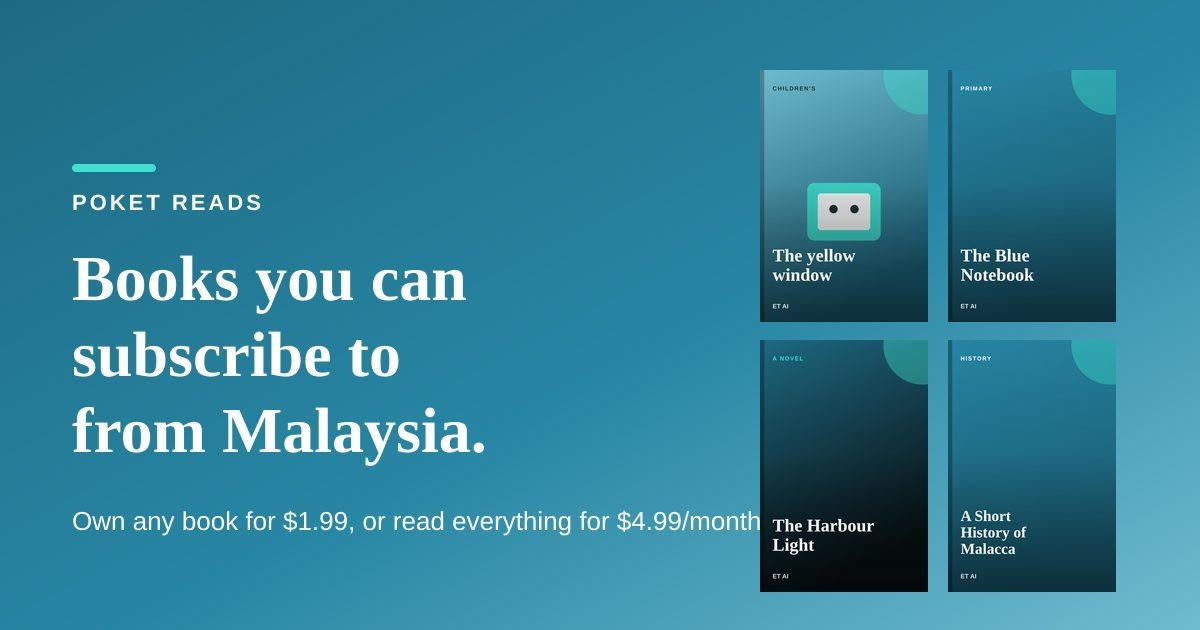
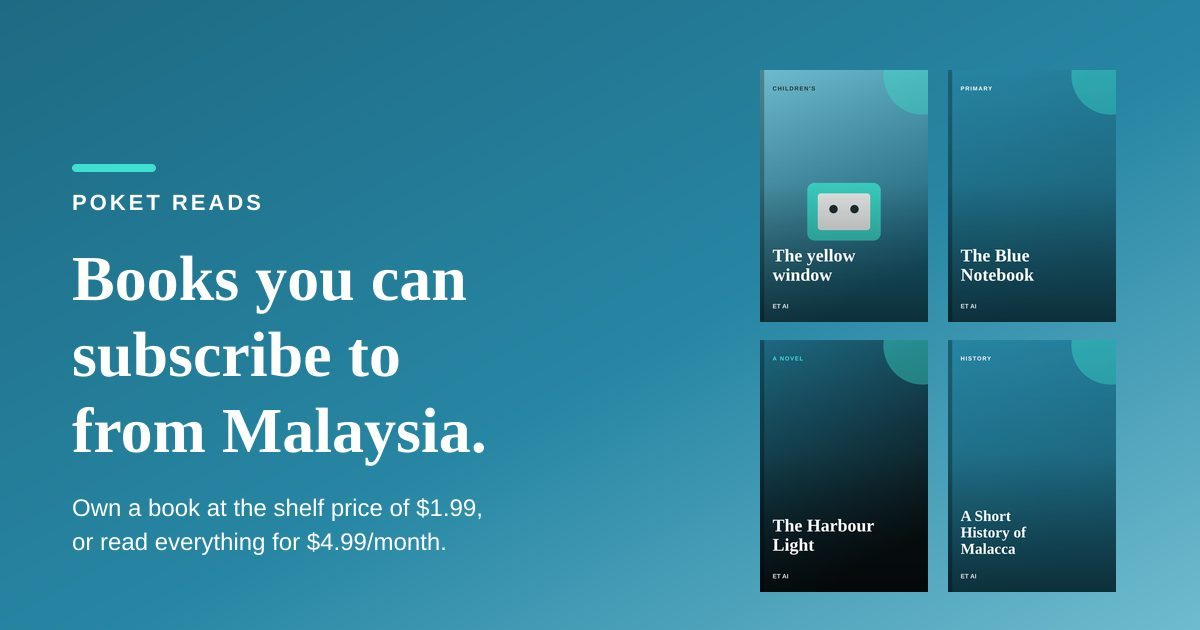
Read the Reads letter from main's shelf prices.
Drop this branch's copies of the pricing engine, wallet, seed, and shared reader. The letter and the /offer card take monthly and yearly amounts from readsPlanItem, and the book shelf price from defaultBookUsd.

Changed region(s): [[0.0617, 0.7841, 0.6475, 0.8746]]

diff --git a/lib/reads-offer.ts b/lib/reads-offer.ts
@@ -1,16 +1,49 @@
 import { LEGAL_COMPANY_NO, LEGAL_ENTITY } from './legal';
 import { LANGUAGES } from './languages';
-import {
-  READS_BOOKS,
-  READS_BOOK_USD,
-  booksVersusUnlimitedLine,
-  formatShelfUsd,
-  ownOrReadLine,
-  readsDailyUsd,
-  readsPlanItem,
-} from './payments/reads';
+import { READS_BOOKS, readsPlanItem } from './payments/reads';
+import { seedPricing } from './pricing';
 
-export { READS_BOOK_USD, booksVersusUnlimitedLine, ownOrReadLine, readsDailyUsd, formatShelfUsd };
+const COUNT_WORDS = ['zero', 'one', 'two', 'three', 'four', 'five', 'six', 'seven', 'eight', 'nine', 'ten'] as const;
+
+/** Shelf price for a book that does not store its own. `seedPricing().defaultBookUsd`. */
+export function shelfBookUsd(): number {
+  return seedPricing().defaultBookUsd;
+}
+
+export const READS_BOOK_USD = shelfBookUsd();
+
+export function formatShelfUsd(amount: number): string {
+  return `$${amount.toFixed(2)}`;
+}
+
+/** How many shelf-price books it takes before their price passes one month of Reads. */
+export function booksDearerThanUnlimited(): number {
+  const month = readsPlanItem('reads', 'month');
+  if (!month || !(READS_BOOK_USD > 0)) return 0;
+  return Math.floor(month.unitAmount / READS_BOOK_USD) + 1;
+}
+
+/** Own-or-subscribe line. Amounts come from the shared shelf. */
+export function ownOrReadLine(): string {
+  const month = readsPlanItem('reads', 'month');
+  if (!month) throw new Error('Reads price is missing from the shared shelf.');
+  return `Own a book at the shelf price of ${formatShelfUsd(READS_BOOK_USD)}, or read everything for ${formatShelfUsd(month.unitAmount)}/month`;
+}
+
+/** Shelf-price books whose total passes one month of unlimited reading. */
+export function booksVersusUnlimitedLine(): string {
+  const count = booksDearerThanUnlimited();
+  const word = COUNT_WORDS[count] ?? String(count);
+  const titled = word.charAt(0).toUpperCase() + word.slice(1);
+  return `${titled} books at the shelf price cost more than a month of unlimited`;
+}
+
+/** Monthly price spread over 30 days, rounded to cents. Label it as approximate. */
+export function readsDailyUsd(sku: 'reads' | 'reads-family' = 'reads'): number {
+  const month = readsPlanItem(sku, 'month');
+  if (!month) throw new Error(`Unknown Reads plan ${sku}`);
+  return Math.round((month.unitAmount / 30) * 100) / 100;
+}
 
 /** Public sales letter. Separate from the Poket School plan ladder at /offer. */
 export const READS_OFFER_PATH = '/reads/offer';
@@ -135,7 +168,7 @@ export const READS_OFFER_FAQ: OfferFaq[] = [
   },
   {
     question: 'What does the monthly Reads price include?',
-    answer: `Poket Reads is ${formatShelfUsd(readsMonthlyUsd('reads'))} a month, or ${formatShelfUsd(readsYearlyUsd('reads'))} for the year. It opens the shelf at Primary and Lower Secondary, plus general fiction, non-fiction and children’s stories on that shelf. It does not include every IGCSE, A-Level or LLB title. Those books sit on the same shelf. The first chapter of a published book is free to sample. Any book is ${formatShelfUsd(READS_BOOK_USD)} to buy and keep. ${booksVersusUnlimitedLine()}.`,
+    answer: `Poket Reads is ${formatShelfUsd(readsMonthlyUsd('reads'))} a month, or ${formatShelfUsd(readsYearlyUsd('reads'))} for the year. It opens the shelf at Primary and Lower Secondary, plus general fiction, non-fiction and children’s stories on that shelf. It does not include every IGCSE, A-Level or LLB title. Those books sit on the same shelf. The first chapter of a published book is free to sample. The shelf price for a book is ${formatShelfUsd(READS_BOOK_USD)} to buy and keep. A title that stores its own price uses that figure. ${booksVersusUnlimitedLine()}.`,
   },
   {
     question: 'What is Reads Family?',
@@ -143,7 +176,7 @@ export const READS_OFFER_FAQ: OfferFaq[] = [
   },
   {
     question: 'If I buy a book, do I keep it?',
-    answer: `Yes. A book is ${formatShelfUsd(READS_BOOK_USD)} to buy, and it stays in your library after a subscription ends.`,
+    answer: `Yes. You buy it at the price stored for that title. The shelf price is ${formatShelfUsd(READS_BOOK_USD)} when a title does not store its own. The file stays in your library after a subscription ends.`,
   },
   {
     question: 'What does Ask ET do inside a book?',
@@ -173,7 +206,7 @@ export const READS_OFFER_FOUNDER = {
   paragraphs: [
     'I am Harry Seggu, founder of Poket School.',
     'Poket Reads is a shelf we sell on its own, from Malaysia. Kindle Unlimited is not sold here. Amazon Kids+ is not sold here. A household can subscribe, or buy one published book and keep it.',
-    `The figures on this page are the prices in the product. A book is ${readsUsdWords(READS_BOOK_USD)} to buy and keep. Reads is ${readsUsdWords(readsMonthlyUsd('reads'))} a month, or ${readsUsdWords(readsYearlyUsd('reads'))} for the year. Reads Family is ${readsUsdWords(readsMonthlyUsd('reads-family'))} a month, or ${readsUsdWords(readsYearlyUsd('reads-family'))} for the year. ${booksVersusUnlimitedLine()}. The subscription opens Primary and Lower Secondary, plus general fiction, non-fiction and children’s stories on that shelf. IGCSE, A-Level and LLB titles can be sampled and bought. They are not included in that monthly price.`,
+    `The figures on this page are the prices in the product. The shelf price for a book is ${readsUsdWords(READS_BOOK_USD)} to buy and keep. A title that stores its own price uses that figure. Reads is ${readsUsdWords(readsMonthlyUsd('reads'))} a month, or ${readsUsdWords(readsYearlyUsd('reads'))} for the year. Reads Family is ${readsUsdWords(readsMonthlyUsd('reads-family'))} a month, or ${readsUsdWords(readsYearlyUsd('reads-family'))} for the year. ${booksVersusUnlimitedLine()}. The subscription opens Primary and Lower Secondary, plus general fiction, non-fiction and children’s stories on that shelf. IGCSE, A-Level and LLB titles can be sampled and bought. They are not included in that monthly price.`,
     'The lines under Read a page are the openings of published chapters. I have not put a customer’s words on this page. We do not have them yet.',
   ],
 } as const;
@@ -220,7 +253,7 @@ export function readsOfferJsonLd() {
           ...productOffers,
           {
             '@type': 'Offer',
-            name: 'Own a book',
+            name: 'Shelf price for a book',
             price: READS_BOOK_USD.toFixed(2),
             priceCurrency: 'USD',
             url: READS_OFFER_URL,

diff --git a/lib/reads-offer.test.ts b/lib/reads-offer.test.ts
@@ -6,22 +6,20 @@ import { BANNED_OFFER_COLOURS, OFFER_JACKETS } from './reads-offer-media';
 import { readsOfferExcerpts } from './reads-offer-excerpts';
 import { LANGUAGES } from './languages';
 import { BOOKS } from './reads/seed';
+import { READS_BOOKS, readsPlanItem } from './payments/reads';
+import { seedPricing } from './pricing';
 import {
-  READS_BOOKS,
   READS_BOOK_USD,
-  READS_PLANS,
-  booksDearerThanUnlimited,
-  booksVersusUnlimitedLine,
-  ownOrReadLine,
-  readsPlanItem,
-} from './payments/reads';
-import {
+  READS_OFFER_BOOKS,
   READS_OFFER_CHECKOUTS,
   READS_OFFER_FAQ,
   READS_OFFER_FOUNDER,
   READS_OFFER_LANGUAGE_COUNT,
   READS_OFFER_TESTIMONIALS,
   bookCheckoutHref,
+  booksDearerThanUnlimited,
+  booksVersusUnlimitedLine,
+  ownOrReadLine,
   readsCheckoutHref,
   readsMonthlyUsd,
   readsOfferJsonLd,
@@ -35,9 +33,9 @@ test('Reads prices match the shared shelf', () => {
   assert.equal(readsYearlyUsd('reads'), 49.99);
   assert.equal(readsMonthlyUsd('reads-family'), 7.99);
   assert.equal(readsYearlyUsd('reads-family'), 79.99);
-  assert.equal(READS_PLANS.find(plan => plan.id === 'reads')?.monthlyUsd, 4.99);
-  assert.equal(READS_PLANS.find(plan => plan.id === 'reads')?.yearlyUsd, 49.99);
+  assert.equal(readsPlanItem('reads', 'year')?.unitAmount, 49.99);
   assert.notEqual(readsYearlyUsd('reads'), readsMonthlyUsd('reads') * 10);
+  assert.notEqual(readsYearlyUsd('reads-family'), readsMonthlyUsd('reads-family') * 10);
   assert.deepEqual(
     READS_OFFER_CHECKOUTS.map(item => item.usd),
     [4.99, 49.99, 7.99, 79.99],
@@ -51,18 +49,24 @@ test('checkout links use the unified Reads checkout', () => {
   assert.equal(bookCheckoutHref('harbour-light'), '/dashboard/checkout?kind=book&sku=harbour-light');
 });
 
-test('buy-to-own prices are the shared own-forever price', () => {
+test('buy-to-own prices come from the shared shelf', () => {
+  const config = seedPricing();
   const harbour = READS_BOOKS.find(book => book.id === 'harbour-light');
-  assert.equal(harbour?.usd, READS_BOOK_USD);
-  assert.equal(harbour?.usd, 1.99);
+  const harbourSeed = BOOKS.find(book => book.id === 'harbour-light');
+  assert.equal(READS_BOOK_USD, config.defaultBookUsd);
+  assert.equal(READS_BOOK_USD, 1.99);
+  assert.equal(harbour?.usd, config.defaultBookUsd);
+  assert.equal(harbourSeed?.priceUsd, config.defaultBookUsd);
   assert.equal(harbour?.title, 'The Harbour Light');
-  assert.equal(READS_BOOKS.every(book => book.usd === READS_BOOK_USD), true);
-  assert.equal(BOOKS.every(book => book.priceUsd === READS_BOOK_USD), true);
+  assert.deepEqual(
+    READS_OFFER_BOOKS.map(book => [book.id, book.usd]),
+    READS_BOOKS.map(book => [book.id, book.usd]),
+  );
   assert.equal(booksDearerThanUnlimited(), 3);
   assert.equal(3 * READS_BOOK_USD > readsMonthlyUsd('reads'), true);
   assert.equal(2 * READS_BOOK_USD > readsMonthlyUsd('reads'), false);
-  assert.equal(ownOrReadLine(), 'Own any book for $1.99, or read everything for $4.99/month');
-  assert.equal(booksVersusUnlimitedLine(), 'Three books cost more than a month of unlimited');
+  assert.equal(ownOrReadLine(), 'Own a book at the shelf price of $1.99, or read everything for $4.99/month');
+  assert.equal(booksVersusUnlimitedLine(), 'Three books at the shelf price cost more than a month of unlimited');
 });
 
 test('excerpts are the opening of real seed chapters', () => {
@@ -118,7 +122,8 @@ test('the letter has a founder note and no invented reviews, guarantee or bonus'
   assert.match(faqBlob, /\$7\.99/);
   assert.match(faqBlob, /\$79\.99/);
   assert.match(founderBlob, /1\.99 US dollars/);
-  assert.match(founderBlob, /Three books cost more than a month of unlimited/);
+  assert.match(founderBlob, /A title that stores its own price uses that figure/);
+  assert.match(founderBlob, /Three books at the shelf price cost more than a month of unlimited/);
   const json = JSON.stringify(readsOfferJsonLd());
   assert.equal(json.includes('"@type":"Review"'), false);
   assert.equal(json.includes('aggregateRating'), false);

diff --git a/components/reads/reader-view.tsx b/components/reads/reader-view.tsx
@@ -21,7 +21,6 @@ import { chapterProgress, paginateChapter, sentencesOf } from '@/lib/reads/pagin
 import { markdownForPageCount } from '@/lib/reads/page-count';
 import { isPictureBook, pictureSpreads, readerFontFamily, readerTypeface, wordsOf, type ReaderTypeface } from '@/lib/reads/picture-book';
 import { ChapterProse, proseForSpeech } from '@/components/reads/prose';
-import { readerSerif } from '@/components/reads/reader-font';
 import { QUIET_LABEL, isQuietHour } from '@/lib/reads/quiet';
 import { bookById } from '@/lib/reads/seed';
 import { STUDIO_AUTOSAVE_KEY, usePublishedStudioBooks } from '@/components/reads/use-studio-shelf';
@@ -51,12 +50,6 @@ function cachedChapterMarkdown(
   } catch {
     return undefined;
   }
-}
-
-function proseFace(prefs: ReaderPrefs, typeface: ReaderTypeface = readerTypeface(prefs)): string {
-  const stack = readerFontFamily(typeface);
-  if (typeface !== 'serif') return stack;
-  return `${readerSerif.style.fontFamily}, ${stack}`;
 }
 
 const THEMES = {
@@ -413,7 +406,7 @@ export function Reader({ bookId, initialLang, preview = false }: { bookId: strin
   const highlighted = notes.some(n => page.includes(n.quote));
 
   return (
-    <div className={`min-h-screen ${readerSerif.className}`} dir={scriptDir} style={{ background: theme.bg, color: theme.fg }}>
+    <div className="min-h-screen" dir={scriptDir} style={{ background: theme.bg, color: theme.fg }}>
       <link rel="stylesheet" href="https://fonts.googleapis.com/css2?family=Lexend:wght@400;500&display=swap" />
       <header className="sticky top-0 z-20 flex flex-wrap items-center gap-1 px-2 py-2 sm:gap-2 sm:px-6 sm:py-3" style={{ background: theme.bg }}>
         <button type="button" onClick={() => router.push(`/reads/book/${book.id}`)} className="grid h-11 w-11 shrink-0 place-items-center rounded-full" aria-label={t('reads.nav.home')}>
@@ -480,7 +473,7 @@ export function Reader({ bookId, initialLang, preview = false }: { bookId: strin
               <p
                 className="text-center"
                 style={{
-                  fontFamily: proseFace(prefs),
+                  fontFamily: readerFontFamily(readerTypeface(prefs)),
                   fontSize: Math.max(prefs.font, 22),
                   lineHeight: readerTypeface(prefs) === 'dyslexia' ? Math.max(prefs.spacing, 1.85) : prefs.spacing,
                   letterSpacing: readerTypeface(prefs) === 'dyslexia' ? '0.02em' : undefined,
@@ -505,7 +498,7 @@ export function Reader({ bookId, initialLang, preview = false }: { bookId: strin
               <div
                 className="mt-6"
                 style={{
-                  fontFamily: proseFace(prefs),
+                  fontFamily: readerFontFamily(readerTypeface(prefs)),
                   fontSize: prefs.font,
                   lineHeight: readerTypeface(prefs) === 'dyslexia' ? Math.max(prefs.spacing, 1.85) : prefs.spacing,
                   letterSpacing: readerTypeface(prefs) === 'dyslexia' ? '0.02em' : undefined,
@@ -707,7 +700,7 @@ function TypePanel({
               aria-pressed={readerTypeface(prefs) === typeface}
               onClick={() => onChange({ ...prefs, typeface: typeface as ReaderTypeface, dyslexia: typeface === 'dyslexia' })}
               className="h-10 flex-1 rounded-full border px-2 text-xs font-semibold"
-              style={{ fontFamily: proseFace(prefs, typeface), borderColor: readerTypeface(prefs) === typeface ? 'currentColor' : undefined }}
+              style={{ fontFamily: readerFontFamily(typeface), borderColor: readerTypeface(prefs) === typeface ? 'currentColor' : undefined }}
             >
               {t(key)}
             </button>

diff --git a/components/reads-offer/letter.tsx b/components/reads-offer/letter.tsx
@@ -28,8 +28,8 @@ import {
   readsDailyUsd,
   readsMonthlyUsd,
   readsYearlyUsd,
+  READS_BOOK_USD,
 } from '@/lib/reads-offer';
-import { READS_BOOK_USD } from '@/lib/payments/reads';
 
 const focus =
   'focus-visible:outline focus-visible:outline-2 focus-visible:outline-offset-2 focus-visible:outline-primary';
@@ -251,7 +251,7 @@ export function ReadsOfferLetter() {
           <p className="text-[11px] font-bold uppercase tracking-[0.18em] text-primary">What you are buying</p>
           <h2 id="stack-title" className="mt-3 font-heading text-4xl tracking-[-0.04em] sm:text-5xl">The books and the shelf, priced only where we have a price.</h2>
           <p className="mt-4 text-[17px] leading-[1.7]">
-            Every book on this list is {readsMoneyWords(READS_BOOK_USD)} to buy and keep. {booksVersusUnlimitedLine()}. Those books together come to {readsMoneyWords(ownedTotal)} if you purchase each of them once. That is the cost of owning those files, not a value of the subscription. The subscription does not include the LLB book or the IGCSE book.
+            The shelf price for a book is {readsMoneyWords(READS_BOOK_USD)}. {booksVersusUnlimitedLine()}. Each title below uses the price stored for that book. Buying each of them once comes to {readsMoneyWords(ownedTotal)}. That is the cost of owning those files, not a value of the subscription. The subscription does not include the LLB book or the IGCSE book.
           </p>
           <ul className="mt-8 divide-y divide-border rounded-3xl border border-border bg-background">
             {READS_OFFER_BOOKS.map(book => (

diff --git a/scripts/build-reads-offer-assets.ts b/scripts/build-reads-offer-assets.ts
@@ -245,7 +245,8 @@ async function og(covers: Buffer[]): Promise<Buffer> {
   <text x="72" y="300" fill="#ffffff" font-family="Liberation Serif, DejaVu Serif, serif" font-size="64" font-weight="700">Books you can</text>
   <text x="72" y="376" fill="#ffffff" font-family="Liberation Serif, DejaVu Serif, serif" font-size="64" font-weight="700">subscribe to</text>
   <text x="72" y="452" fill="#ffffff" font-family="Liberation Serif, DejaVu Serif, serif" font-size="64" font-weight="700">from Malaysia.</text>
-  <text x="72" y="530" fill="#ffffff" font-family="Liberation Sans, DejaVu Sans, sans-serif" font-size="26">${escapeXml(ownOrReadLine())}.</text>
+  <text x="72" y="516" fill="#ffffff" font-family="Liberation Sans, DejaVu Sans, sans-serif" font-size="24">${escapeXml(ownOrReadLine().split(', ')[0])},</text>
+  <text x="72" y="550" fill="#ffffff" font-family="Liberation Sans, DejaVu Sans, sans-serif" font-size="24">${escapeXml(ownOrReadLine().split(', ')[1] ?? '')}.</text>
 </svg>`);
   let image = sharp(board);
   const composites = thumbs.map((input, index) => ({ input, left: 760 + (index % 2) * 188, top: 70 + Math.floor(index / 2) * 270 }));

diff --git a/lib/offer.test.ts b/lib/offer.test.ts
@@ -1,7 +1,8 @@
 import assert from 'node:assert/strict';
 import { test } from 'node:test';
 import { OFFER_BUNDLE_EXTRAS, OFFER_ROUTES, offerIncludedFeatures, offerPlans, offerPublicStrings } from './offer';
-import { booksVersusUnlimitedLine, ownOrReadLine, readsPlanItem } from './payments/reads';
+import { readsPlanItem } from './payments/reads';
+import { booksVersusUnlimitedLine, ownOrReadLine } from './reads-offer';
 
 const FORBIDDEN = [
   /\bPROPOSED\b/i,

diff --git a/lib/offer.ts b/lib/offer.ts
@@ -6,7 +6,8 @@
  * Standalone Poket Reads uses the shared shelf price and links to /reads/offer.
  */
 
-import { booksVersusUnlimitedLine, ownOrReadLine, readsPlanItem } from './payments/reads';
+import { readsPlanItem } from './payments/reads';
+import { booksVersusUnlimitedLine, ownOrReadLine } from './reads-offer';
 
 export const OFFER_BUNDLE_EXTRAS = true;
 

diff --git a/next.config.ts b/next.config.ts
@@ -14,7 +14,6 @@ const nextConfig: NextConfig = {
     ignoreBuildErrors: true,
   },
   images: {
-    formats: ['image/avif', 'image/webp'],
     remotePatterns: [
       {
         protocol: 'https',
